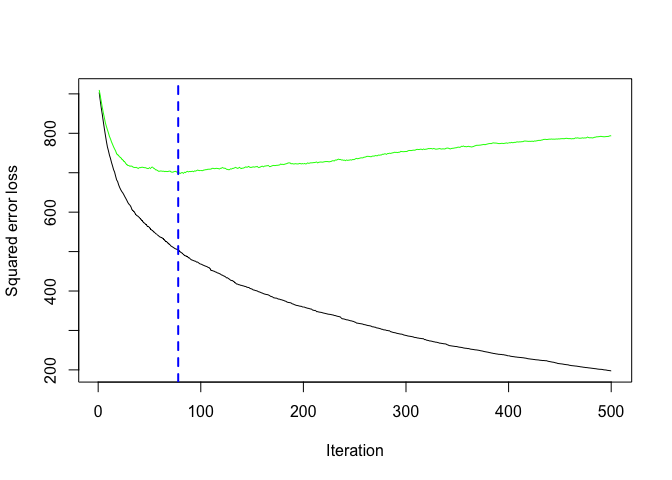
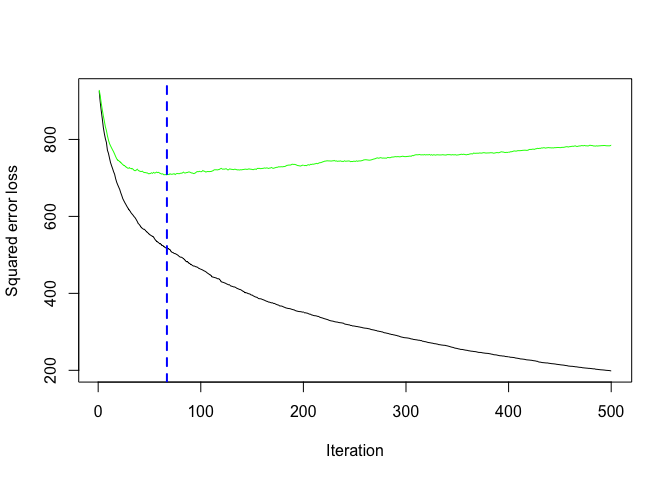
Final Final

diff --git a/Exercise 3/ECO-395M-exercise-3.md b/Exercise 3/ECO-395M-exercise-3.md
@@ -79,9 +79,9 @@ class and adopted in my base model to evaluate performance.
 
 Out-of-sample RMSEs for un-pruned CART and pruned CART is,
 
-    ## [1] 27.0909
+    ## [1] 29.98221
 
-    ## [1] 28.78253
+    ## [1] 26.71775
 
 Result shows pruned CART gives a little bit higher RMSE compared to
 un-pruned CART. This is due to the fact that pruned CART has higher bias
@@ -103,7 +103,7 @@ of random forest eliminates need for cross validation.
 
 Out-of-sample RMSEs for random forests is,
 
-    ## [1] 25.78279
+    ## [1] 25.10599
 
 #### Gradient Boosted trees to predict dengue cases
 
@@ -114,7 +114,7 @@ plotted error curve, which is deviance plot.
 
 ![](ECO-395M-exercise-3_files/figure-markdown_strict/problem%202.Gradient_boosted.1-1.png)
 
-    ## [1] 78
+    ## [1] 67
 
 The green line is our cross validated error. The x-axis of error curve
 is number of iterations and y-axis of error curve is deviance of the
@@ -123,7 +123,7 @@ best number of iteration minimizing error.
 
 Out-of-sample RMSEs for Gradient boosted tree is,
 
-    ## [1] 25.88387
+    ## [1] 24.87059
 
 ##### Checking model performance with out-of-sample RMSEs for each models
 
@@ -144,7 +144,7 @@ RMSE
 Un-pruned Tree
 </td>
 <td style="text-align:right;">
-27.09090
+29.98221
 </td>
 </tr>
 <tr>
@@ -152,7 +152,7 @@ Un-pruned Tree
 Pruned Tree
 </td>
 <td style="text-align:right;">
-28.78253
+26.71775
 </td>
 </tr>
 <tr>
@@ -160,7 +160,7 @@ Pruned Tree
 Random Forest
 </td>
 <td style="text-align:right;">
-25.78279
+25.10599
 </td>
 </tr>
 <tr>
@@ -168,7 +168,7 @@ Random Forest
 Gradient Boosting
 </td>
 <td style="text-align:right;">
-25.88387
+24.87059
 </td>
 </tr>
 </tbody>
@@ -222,22 +222,7 @@ We took out Rent and leasing\_rate as they are already taken into
 account as revenue. We also chose to take out LEED and Energystar and
 collapsed them into a single “green certified” category.
 
-    ## 
-    ## Call:
-    ## lm(formula = revenue ~ . - Rent - leasing_rate - CS_PropertyID - 
-    ##     LEED - Energystar, data = green_train)
-    ## 
-    ## Coefficients:
-    ##       (Intercept)            cluster               size            empl_gr  
-    ##        -1.488e+03          8.248e-02          8.003e-04          2.568e+00  
-    ##           stories                age          renovated            class_a  
-    ##        -1.035e+00         -1.153e+00          3.328e+01          5.013e+02  
-    ##           class_b       green_rating                net          amenities  
-    ##         2.820e+02          1.472e+02         -2.466e+02          1.607e+02  
-    ##       cd_total_07         hd_total07        total_dd_07      Precipitation  
-    ##        -4.793e-03          7.062e-02                 NA          2.713e-01  
-    ##         Gas_Costs  Electricity_Costs   City_Market_Rent  
-    ##        -1.073e+04          1.508e+04          9.779e+01
+    lm_green1 = lm(revenue ~ . - Rent - leasing_rate - CS_PropertyID - LEED - Energystar, data = green_train)
 
 We improved our linear regression model by adding interactions between
 Gas\_Costs, Electricity Costs with possible sources of the costs.
@@ -245,49 +230,8 @@ Specifically, we figured that gas and electricity costs are associated
 with number of heating/cooling degree days, precipitation, city market
 rent, stories, age, amenities, renovation status by correlation tests.
 
-    ## 
-    ## Call:
-    ## lm(formula = revenue ~ . - Rent - leasing_rate - CS_PropertyID - 
-    ##     LEED - Energystar + Gas_Costs:total_dd_07 + Gas_Costs:Precipitation + 
-    ##     Gas_Costs:amenities + Gas_Costs:City_Market_Rent + Gas_Costs:stories + 
-    ##     Electricity_Costs:renovated + Electricity_Costs:total_dd_07 + 
-    ##     Electricity_Costs:Precipitation + Electricity_Costs:Gas_Costs + 
-    ##     Electricity_Costs:stories + Electricity_Costs:age + Electricity_Costs:City_Market_Rent + 
-    ##     Electricity_Costs:amenities, data = green_train)
-    ## 
-    ## Coefficients:
-    ##                        (Intercept)                             cluster  
-    ##                         -1.101e+03                           9.331e-02  
-    ##                               size                             empl_gr  
-    ##                          8.122e-04                           2.872e+00  
-    ##                            stories                                 age  
-    ##                         -4.222e+01                          -8.250e-01  
-    ##                          renovated                             class_a  
-    ##                          4.027e+01                           3.969e+02  
-    ##                            class_b                        green_rating  
-    ##                          2.334e+02                           1.607e+02  
-    ##                                net                           amenities  
-    ##                         -2.410e+02                          -6.940e+02  
-    ##                        cd_total_07                          hd_total07  
-    ##                          5.586e-02                           1.652e-01  
-    ##                        total_dd_07                       Precipitation  
-    ##                                 NA                           1.848e+01  
-    ##                          Gas_Costs                   Electricity_Costs  
-    ##                          1.330e+05                          -3.347e+04  
-    ##                   City_Market_Rent               total_dd_07:Gas_Costs  
-    ##                          6.956e+01                          -2.107e+01  
-    ##            Precipitation:Gas_Costs                 amenities:Gas_Costs  
-    ##                         -5.112e+02                           5.142e+04  
-    ##         Gas_Costs:City_Market_Rent                   stories:Gas_Costs  
-    ##                         -4.929e+02                           1.174e+02  
-    ##        renovated:Electricity_Costs       total_dd_07:Electricity_Costs  
-    ##                          7.804e+02                           4.138e+00  
-    ##    Precipitation:Electricity_Costs         Gas_Costs:Electricity_Costs  
-    ##                         -6.468e+02                           3.449e+05  
-    ##          stories:Electricity_Costs               age:Electricity_Costs  
-    ##                          1.318e+03                          -6.171e+01  
-    ## Electricity_Costs:City_Market_Rent         amenities:Electricity_Costs  
-    ##                          9.019e+02                           1.004e+04
+    # creating a new improved linear regression model
+    lm_green_improved = lm(revenue ~ . - Rent - leasing_rate - CS_PropertyID - LEED - Energystar + Gas_Costs:total_dd_07 + Gas_Costs:Precipitation + Gas_Costs:amenities + Gas_Costs:City_Market_Rent +  Gas_Costs:stories +  Electricity_Costs:renovated + Electricity_Costs:total_dd_07 + Electricity_Costs:Precipitation + Electricity_Costs:Gas_Costs + Electricity_Costs:stories + Electricity_Costs:age + Electricity_Costs:City_Market_Rent + Electricity_Costs:amenities, data = green_train)
 
 We then created a CART model with basic independent variables
 
@@ -337,7 +281,7 @@ RMSE
 Linear model
 </td>
 <td style="text-align:right;">
-1077.7588
+889.6209
 </td>
 </tr>
 <tr>
@@ -345,7 +289,7 @@ Linear model
 Improved linear model
 </td>
 <td style="text-align:right;">
-1078.0633
+877.6338
 </td>
 </tr>
 <tr>
@@ -353,7 +297,7 @@ Improved linear model
 Tree model
 </td>
 <td style="text-align:right;">
-1102.3409
+877.7752
 </td>
 </tr>
 <tr>
@@ -361,7 +305,7 @@ Tree model
 Pruned tree model
 </td>
 <td style="text-align:right;">
-1120.0305
+915.8561
 </td>
 </tr>
 <tr>
@@ -369,7 +313,7 @@ Pruned tree model
 Random forest model
 </td>
 <td style="text-align:right;">
-878.1369
+665.8572
 </td>
 </tr>
 <tr>
@@ -377,7 +321,7 @@ Random forest model
 Boosted model
 </td>
 <td style="text-align:right;">
-905.7466
+722.9812
 </td>
 </tr>
 </tbody>
@@ -410,7 +354,7 @@ RMSE
 CART
 </td>
 <td style="text-align:right;">
-69479.37
+68910.50
 </td>
 </tr>
 <tr>
@@ -418,7 +362,7 @@ CART
 Random Forest
 </td>
 <td style="text-align:right;">
-51662.43
+52802.45
 </td>
 </tr>
 <tr>
@@ -426,7 +370,7 @@ Random Forest
 Gradient-Boosted Tree
 </td>
 <td style="text-align:right;">
-56969.33
+57751.01
 </td>
 </tr>
 </tbody>
